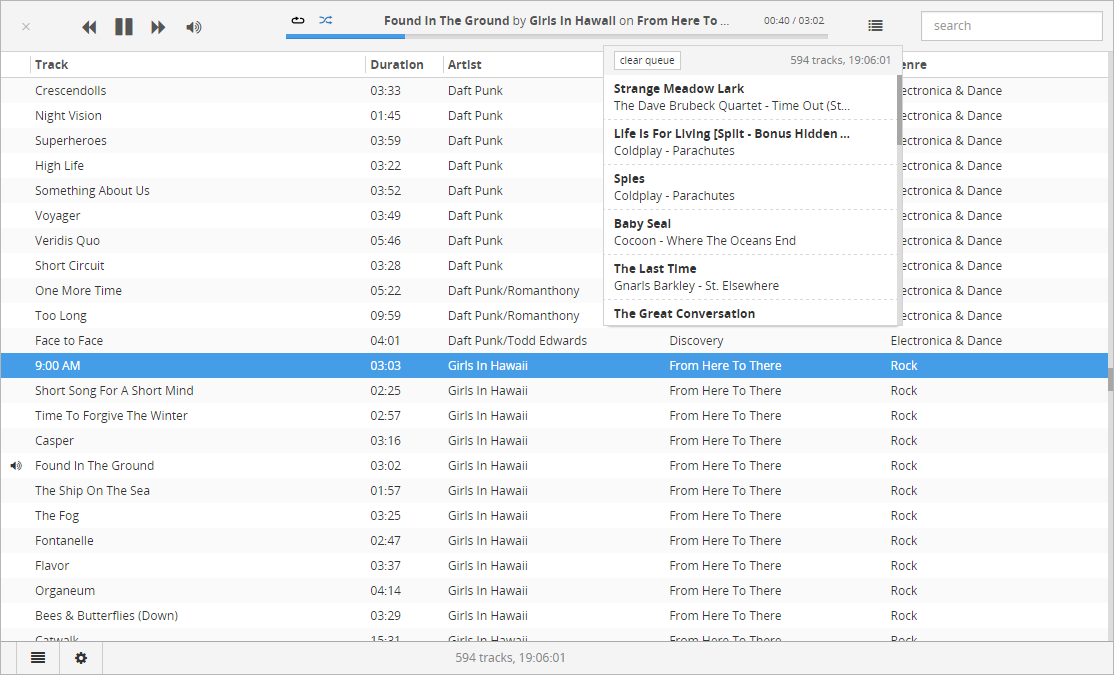
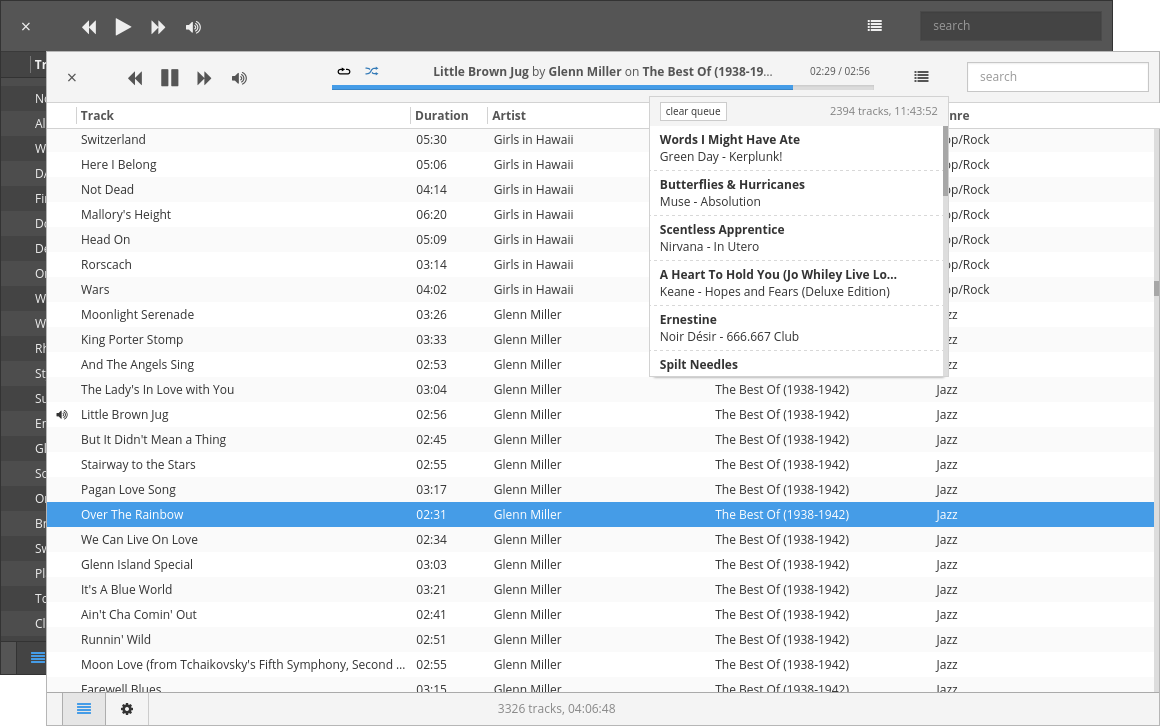
Typo fix and screenshot update

Changed region(s): [[0.0, 0.0, 1.0, 1.0], [0.9767, 0.3733, 1.0, 0.4044]]

diff --git a/README.md b/README.md
@@ -36,9 +36,9 @@ It uses:
 
 ### Installation
 
-#### Classic user-select
+#### Classic
 
-Builds can be found [at this page](https://github.com/KeitIG/museeks/releases).
+Builds can be found [at this page](https://github.com/KeitIG/museeks/releases). Please notive those are only portable versions. Installers may come in the future.
 
 #### Dev (advanced)
 

diff --git a/ROADMAP.md b/ROADMAP.md
@@ -2,7 +2,6 @@
 
 ### On deck
 
-- Big library support (#57)
 - Playlists support (#22)
 - Reorderable columns in tracks list
 
